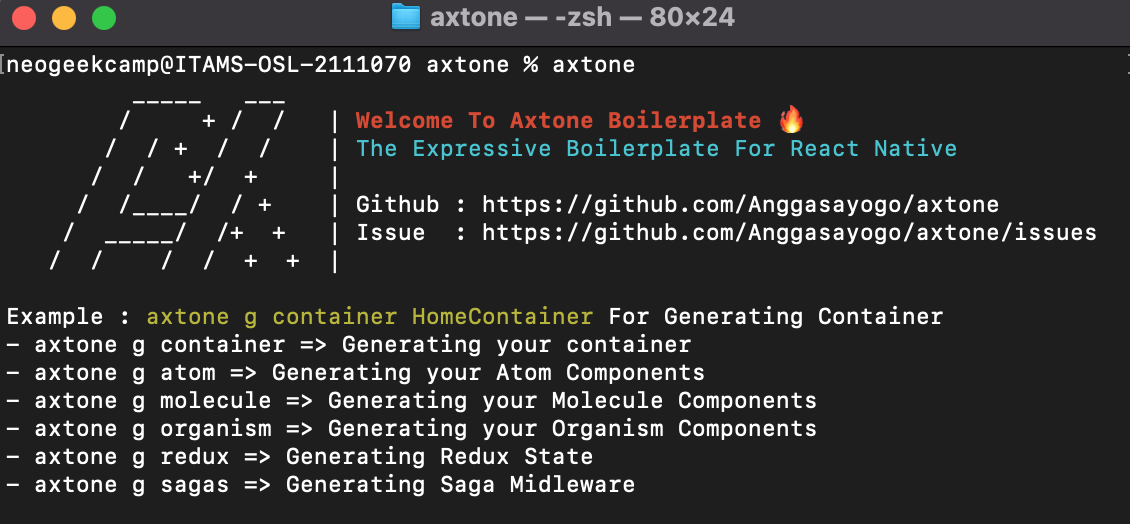
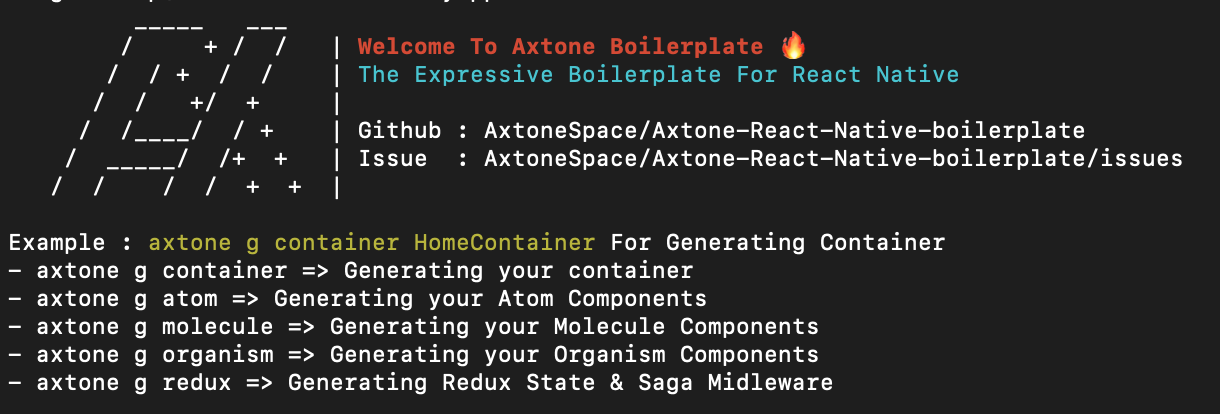
fix: redux,midleware

diff --git a/src/utils/cosmetic.js b/src/utils/cosmetic.js
@@ -7,8 +7,8 @@ const infomark = (
 `        /     + /  /   | ${bold(red("Welcome To Axtone Boilerplate 🔥"))} \n`+
 `       /  / +  /  /    | ${cyan("The Expressive Boilerplate For React Native")} \n`+
 "      /  /   +/  +     | \n"+
-"     /  /____/  / +    | Github : https://github.com/Anggasayogo/axtone\n"+
-"    /  _____/  /+  +   | Issue  : https://github.com/Anggasayogo/axtone/issues\n"+
+"     /  /____/  / +    | Github : AxtoneSpace/Axtone-React-Native-boilerplate\n"+
+"    /  _____/  /+  +   | Issue  : AxtoneSpace/Axtone-React-Native-boilerplate/issues\n"+
 "   /  /    /  /  +  +  | \n");
 
 const comadList = (
@@ -17,8 +17,7 @@ const comadList = (
     `- axtone g atom => Generating your Atom Components\n`+
     `- axtone g molecule => Generating your Molecule Components\n`+
     `- axtone g organism => Generating your Organism Components\n`+
-    `- axtone g redux => Generating Redux State\n`+
-    `- axtone g sagas => Generating Saga Midleware\n`
+    `- axtone g redux => Generating Redux State & Saga Midleware\n`
 );
 
 const axtoneMark = () => {

diff --git a/src/commands/generate.js b/src/commands/generate.js
@@ -18,6 +18,7 @@ module.exports = {
           target: `src/Containers/${name}Screen.js`,
           props: { name },
         })
+
         info(`${checkmark} src/Containers/${name}Screen.js`)
         break
       }
@@ -32,7 +33,9 @@ module.exports = {
           target: `src/Components/Molecule/${name}/styles.js`,
           props: { name },
         })
+
         info(`${checkmark} src/Components/Molecule/${name}/${name}Molecule.js`)
+        info(`${checkmark} src/Components/Molecule/${name}/styles.js`)
         break
       }
       case 'redux': {
@@ -41,7 +44,14 @@ module.exports = {
           target: `src/Store/Redux/${name}Reducer.js`,
           props: { name },
         })
+        await generate({
+          template: 'sagas.js.ejs',
+          target: `src/Store/Sagas/${name}Sagas.js`,
+          props: { name },
+        })
+
         info(`${checkmark} src/Store/Redux/${name}Reducer.js`)
+        info(`${checkmark} src/Store/Sagas/${name}Sagas.js`)
         break
       }
     }
